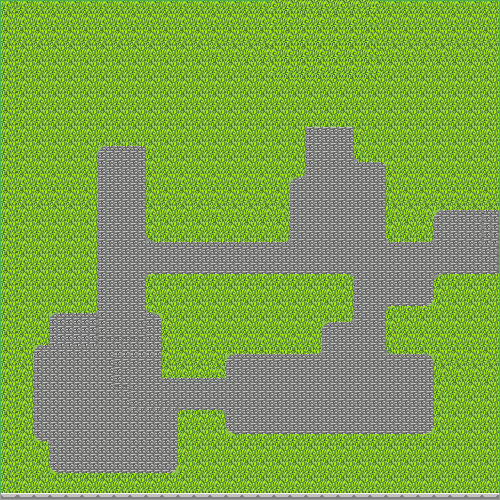
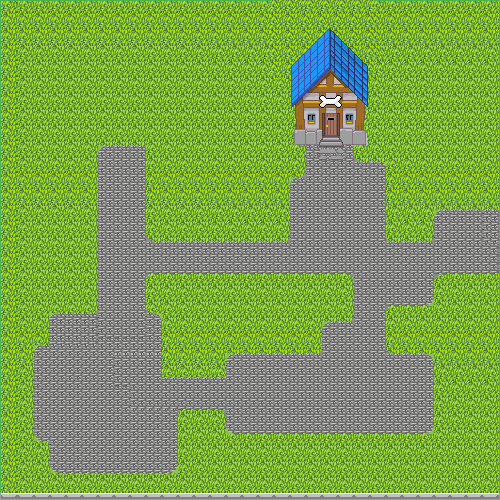
Add hewerts house

Changed region(s): [[0.57, 0.06, 0.75, 0.33]]

diff --git a/dist/main.js b/dist/main.js
@@ -100,9 +100,11 @@ __webpack_require__.r(__webpack_exports__);
 
 
 document.addEventListener("DOMContentLoaded", function () {
-  var instructions = document.querySelector("#start-play");
-  var playButton = document.querySelector("a.play-button");
-  var restartButton = document.querySelector("a.restart-button");
+  // comment back in
+  // const instructions = document.querySelector("#start-play")
+  // const playButton = document.querySelector("a.play-button");
+  // const restartButton = document.querySelector("a.restart-button");
+  // comment back in
   var canvasEl = document.getElementById("mycanvas");
   var ctx = canvasEl.getContext("2d");
   canvasEl.width = 500;
@@ -126,14 +128,16 @@ document.addEventListener("DOMContentLoaded", function () {
     requestAnimationFrame(animate);
   }
 
-  playButton.addEventListener('click', function () {
-    playButton.style.visibility = 'hidden';
-    instructions.style.visibility = 'hidden';
-    animate();
-  });
-  restartButton.addEventListener('click', function () {
-    restart.Buttonstyle.visibility = 'visible';
-  });
+  animate(); // comment back in
+  // playButton.addEventListener('click', () => {
+  //   playButton.style.visibility = 'hidden'
+  //   instructions.style.visibility = 'hidden';
+  //   animate();
+  // });
+  // restartButton.addEventListener('click', () => {
+  //   restart.Buttonstyle.visibility = 'visible';
+  // });
+  // comment back in
 }); // export function newGame() {
 //     game = new Game(canvas.width, canvas.height, ctx);
 //     document.getElementById("start-div").style.visibility = "visible";
@@ -360,9 +364,10 @@ var Map = /*#__PURE__*/function () {
     value: function draw(ctx) {
       var mapSize = this.width * this.magnify;
       ctx.drawImage(this.map, 0, 0, this.map.width, this.map.height, -this.map.width + this.xPos, -this.map.height + this.yPos, mapSize, mapSize); // console.log(this.xPos + "and" + this.yPos)
-      // if (this.xPos <= 525 && this.xPos >= -500 && this.yPos <= 750 && this.yPos >= -350) {
-      //     this.house.drawHewertsHouse(this.width, this.height);
-      // }
+
+      if (this.xPos <= 525 && this.xPos >= -500 && this.yPos <= 750 && this.yPos >= -350) {
+        this.house.drawHewertsHouse(this.xPos, this.yPos);
+      }
     }
   }, {
     key: "render",
@@ -406,29 +411,29 @@ var Houses = /*#__PURE__*/function () {
     this.xCollision = this.xPos - this.baseWidth;
     this.yCollision = this.yPos - this.baseHeight;
     this.house = new Image();
-  }
+  } // drawPollysHouse(dx, dy) {
+  //     const pollysHouse = this.house;
+  //     pollysHouse.src = "src/assets/images/map_elements/pollysHouse.png";
+  //     const baseWidth = 80;
+  //     const baseHeight = 120;
+  //     let leoDx = baseWidth;
+  //     let leoDy = baseHeight;
+  //     this.ctx.drawImage(pollysHouse, 0, 0);
+  // }
+
 
   _createClass(Houses, [{
-    key: "drawPollysHouse",
-    value: function drawPollysHouse(dx, dy) {
-      var pollysHouse = this.house;
-      pollysHouse.src = "src/assets/images/map_elements/pollysHouse.png";
-      var baseWidth = 80;
-      var baseHeight = 120;
-      var leoDx = baseWidth;
-      var leoDy = baseHeight; // this.ctx.drawImage(pollysHouse, , 0, baseWidth * 5, baseHeight * 5);
-    }
-  }, {
     key: "drawHewertsHouse",
     value: function drawHewertsHouse(dx, dy) {
       var hewertsHouse = this.house;
       hewertsHouse.src = "src/assets/images/map_elements/hewertsHouse.png";
       var baseWidth = 200;
-      var baseHeight = 120;
-      var leoDx = this.xPos - baseWidth;
-      var leoDy = this.yPos - baseHeight; // console.log(leoDy)
+      var baseHeight = 120; // let leoDx = this.xPos - baseWidth;
+      // let leoDy = this.yPos - baseHeight;
+      // console.log(leoDy)
+      // this.ctx.drawImage(hewertsHouse, 0, 0, baseWidth, baseHeight, dx, dy, baseWidth * 3, baseHeight * 3);
 
-      this.ctx.drawImage(hewertsHouse, 0, 0, baseWidth, baseHeight, dx, dy, baseWidth * 3, baseHeight * 3);
+      this.ctx.drawImage(hewertsHouse, -70 + dx, -90 + dy, baseWidth * 3, baseHeight * 3);
     }
   }]);
 
@@ -606,4 +611,4 @@ __webpack_require__.r(__webpack_exports__);
 /***/ })
 
 /******/ });
[2 lines of base64/hex data omitted]

diff --git a/src/scripts/map_ele/houses.js b/src/scripts/map_ele/houses.js
@@ -9,17 +9,17 @@ class Houses {
         this.house = new Image();
     }
 
-    drawPollysHouse(dx, dy) {
-        const pollysHouse = this.house;
-        pollysHouse.src = "src/assets/images/map_elements/pollysHouse.png";
+    // drawPollysHouse(dx, dy) {
+    //     const pollysHouse = this.house;
+    //     pollysHouse.src = "src/assets/images/map_elements/pollysHouse.png";
 
-        const baseWidth = 80;
-        const baseHeight = 120;
-        let leoDx = baseWidth;
-        let leoDy = baseHeight;
+    //     const baseWidth = 80;
+    //     const baseHeight = 120;
+    //     let leoDx = baseWidth;
+    //     let leoDy = baseHeight;
 
-        // this.ctx.drawImage(pollysHouse, , 0, baseWidth * 5, baseHeight * 5);
-    }
+    //     this.ctx.drawImage(pollysHouse, 0, 0);
+    // }
 
     drawHewertsHouse(dx, dy) {
         const hewertsHouse = this.house;
@@ -27,11 +27,13 @@ class Houses {
 
         const baseWidth = 200;
         const baseHeight = 120;
-        let leoDx = this.xPos - baseWidth;
-        let leoDy = this.yPos - baseHeight;
+        // let leoDx = this.xPos - baseWidth;
+        // let leoDy = this.yPos - baseHeight;
 
         // console.log(leoDy)
-        this.ctx.drawImage(hewertsHouse, 0, 0, baseWidth, baseHeight, dx, dy, baseWidth * 3, baseHeight * 3);
+
+        // this.ctx.drawImage(hewertsHouse, 0, 0, baseWidth, baseHeight, dx, dy, baseWidth * 3, baseHeight * 3);
+        this.ctx.drawImage(hewertsHouse, -70 + dx, -90 + dy, baseWidth * 3, baseHeight * 3)
     }
 }
 

diff --git a/src/index.js b/src/index.js
@@ -2,9 +2,11 @@ import "./styles/index.scss";
 import Game from './scripts/game';
 
 document.addEventListener("DOMContentLoaded", () => {
-  const instructions = document.querySelector("#start-play")
-  const playButton = document.querySelector("a.play-button");
-  const restartButton = document.querySelector("a.restart-button");
+  // comment back in
+  // const instructions = document.querySelector("#start-play")
+  // const playButton = document.querySelector("a.play-button");
+  // const restartButton = document.querySelector("a.restart-button");
+  // comment back in
 
   const canvasEl = document.getElementById("mycanvas");
   const ctx = canvasEl.getContext("2d");
@@ -30,15 +32,19 @@ document.addEventListener("DOMContentLoaded", () => {
     requestAnimationFrame(animate);
   }
 
-  playButton.addEventListener('click', () => {
-    playButton.style.visibility = 'hidden'
-    instructions.style.visibility = 'hidden';
-    animate();
-  });
+  animate();
 
-  restartButton.addEventListener('click', () => {
-    restart.Buttonstyle.visibility = 'visible';
-  });
+  // comment back in
+  // playButton.addEventListener('click', () => {
+  //   playButton.style.visibility = 'hidden'
+  //   instructions.style.visibility = 'hidden';
+  //   animate();
+  // });
+
+  // restartButton.addEventListener('click', () => {
+  //   restart.Buttonstyle.visibility = 'visible';
+  // });
+  // comment back in
 });
 
 // export function newGame() {

diff --git a/index.html b/index.html
@@ -20,16 +20,21 @@
             <!-- <div class="Leo">
                 <img class="Leo_sprite pixelize" src="src/assets/images/sprite/LeoWalkCycle.png" alt="Character">
             </div> -->
-            <a class="play-button" href="#">
+
+            <!-- comment back in -->
+            <!-- <a class="play-button" href="#">
               <span>Let</span>s<span>Play</span>
             </a>
-            <div id="start-play">
+            <div id="start-play"> -->
                 <!-- These are part of story text, how can I stored these
                 so that they don't just take up more space in the html file? -->
-                <p class="one">Use arrow keys to move Leo around</p>
+                <!-- <p class="one">Use arrow keys to move Leo around</p>
                 <p class="two">Press the space bar to chat</p>
                 <p class="three">or enter houses</p>
-            </div>
+            </div> -->
+            <!-- comment back in -->
+
+            
             <div id="restart">
                 <a class="restart-button" href="#">Play Again</a>
             </div>

diff --git a/src/scripts/map.js b/src/scripts/map.js
@@ -28,9 +28,9 @@ class Map {
         );
 
         // console.log(this.xPos + "and" + this.yPos)
-        // if (this.xPos <= 525 && this.xPos >= -500 && this.yPos <= 750 && this.yPos >= -350) {
-        //     this.house.drawHewertsHouse(this.width, this.height);
-        // }
+        if (this.xPos <= 525 && this.xPos >= -500 && this.yPos <= 750 && this.yPos >= -350) {
+            this.house.drawHewertsHouse(this.xPos, this.yPos);
+        }
     }
 
     render(leoDx, leoDy) {
